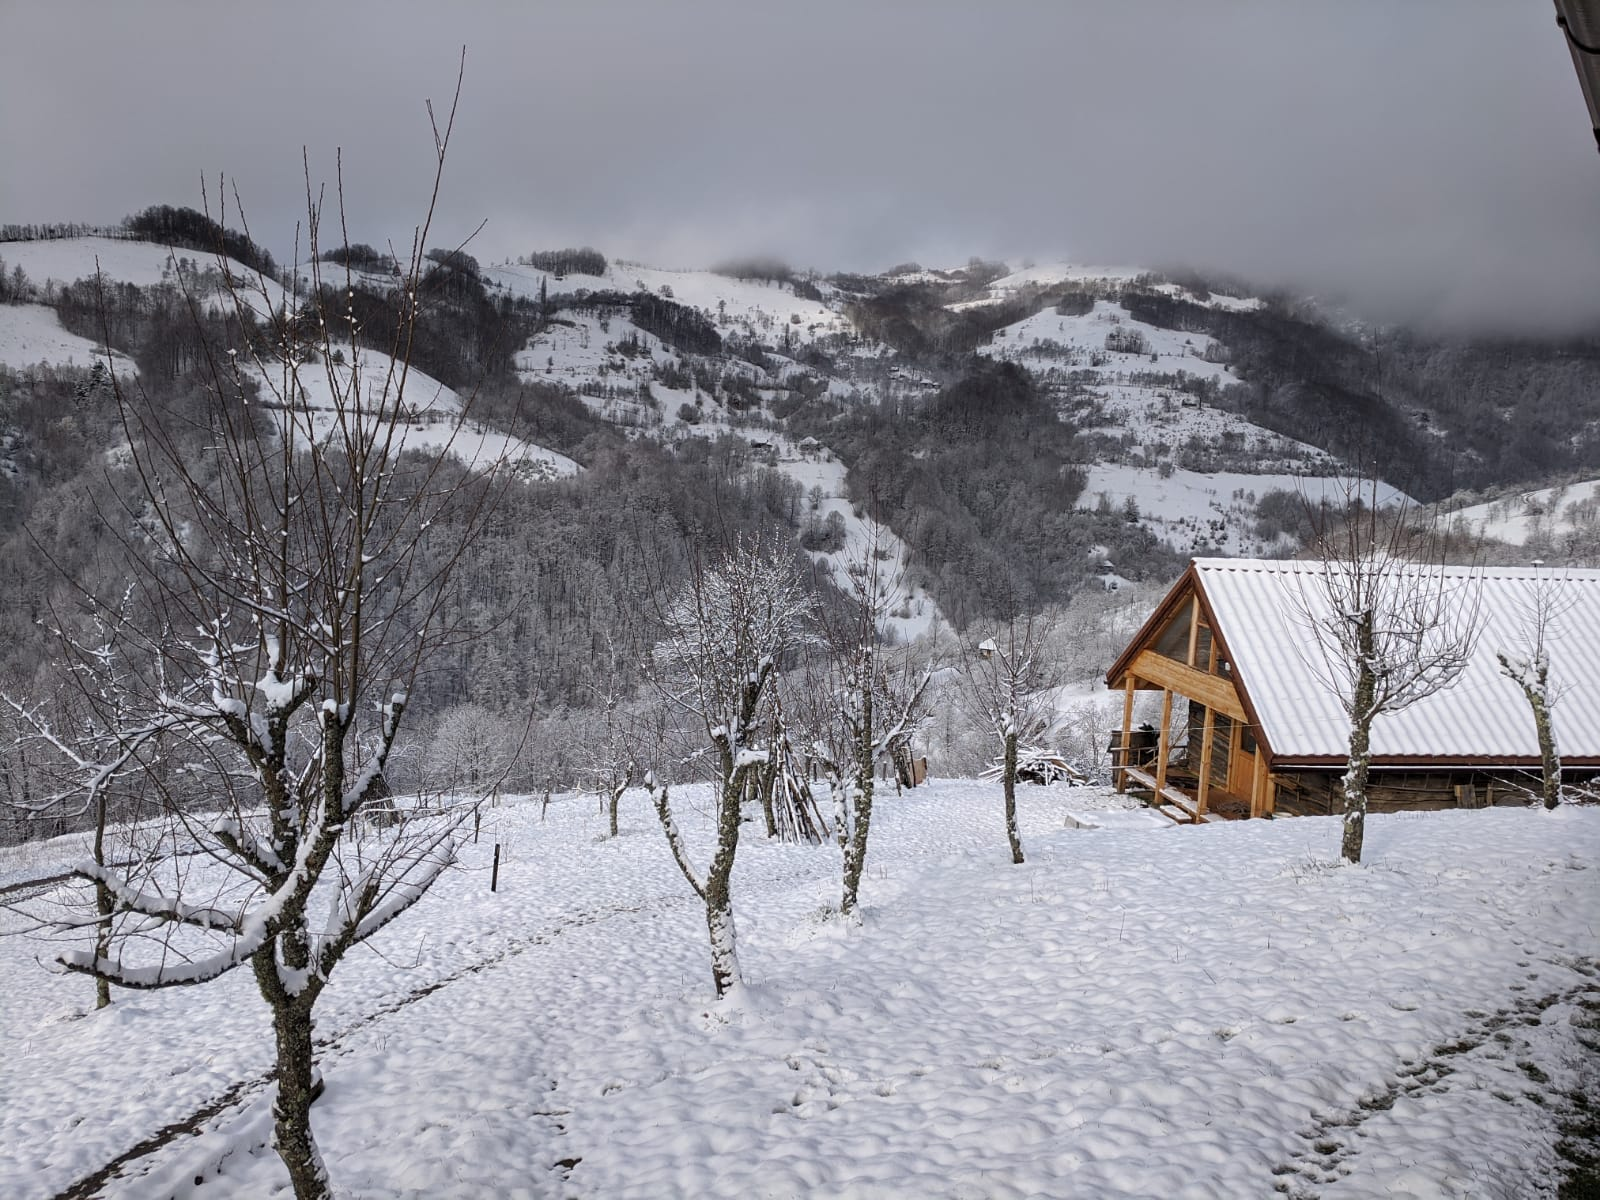
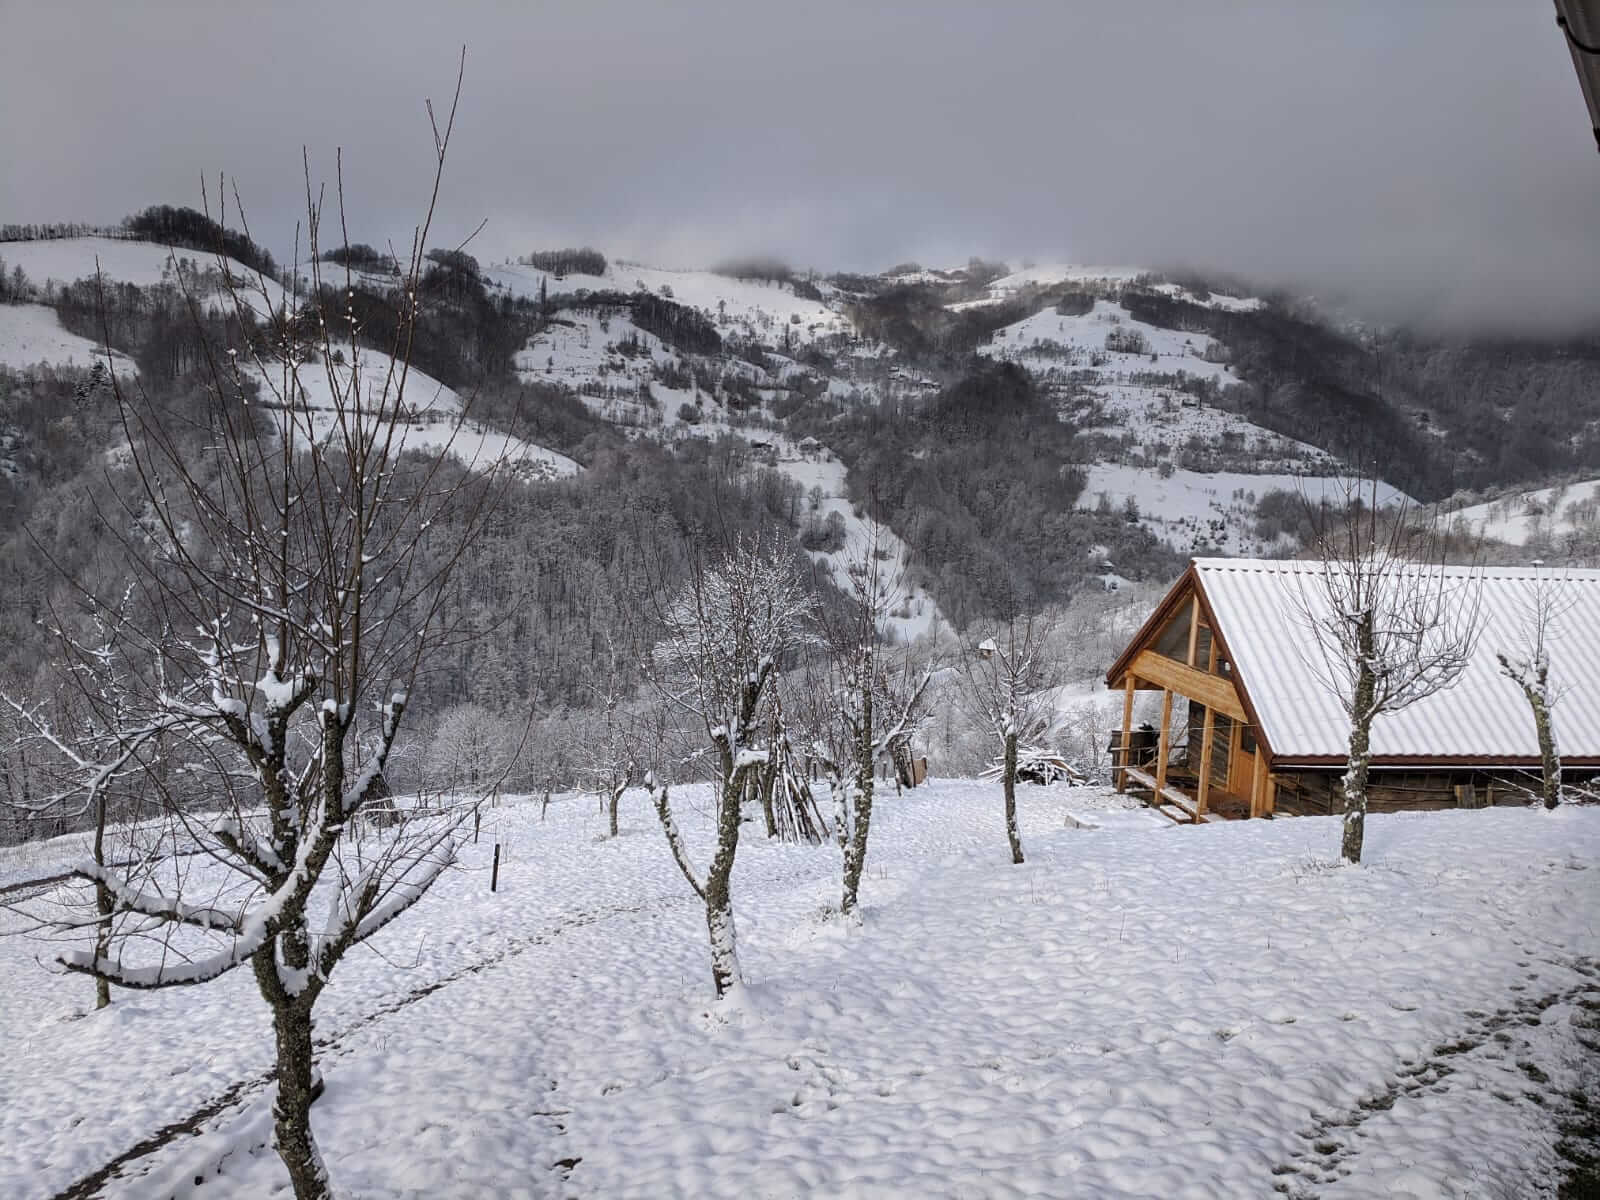
Optimise images

Changed region(s): [[0.4375, 0.4625, 0.4688, 0.4933]]

diff --git a/src/components/Nav/nav.js b/src/components/Nav/nav.js
@@ -1,6 +1,6 @@
 import React, { useRef } from 'react';
 import * as styles from './nav.module.css';
-import Logo from '../../../assets/d3c-logo-white.inline.svg'
+import Logo from '../../assets/d3c-logo-white.inline.svg'
 
 export default function Nav() {
 

diff --git a/src/components/hero.js b/src/components/hero.js
@@ -51,6 +51,7 @@ const Hero = () => {
 			formats={["auto", "webp", "avif"]}
 			alt=""
 			style={img}
+			loading="eager"
 		/>
 		<div style={textContainer}>
 			<h1 style={h1}>Dealul Cu Trei Case</h1>
